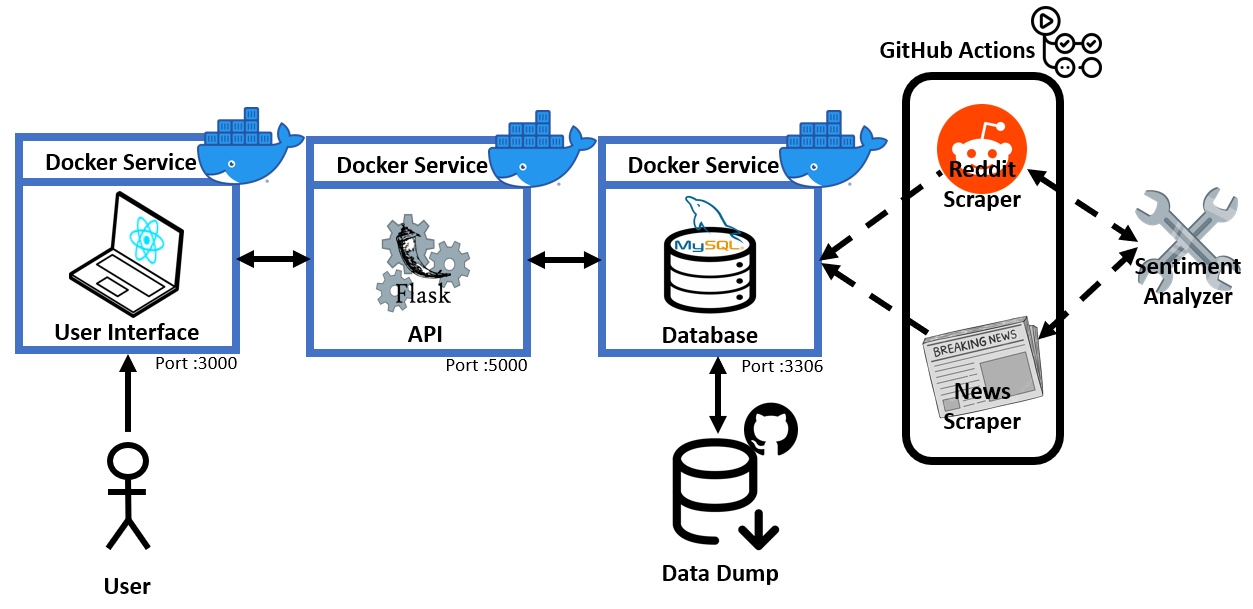
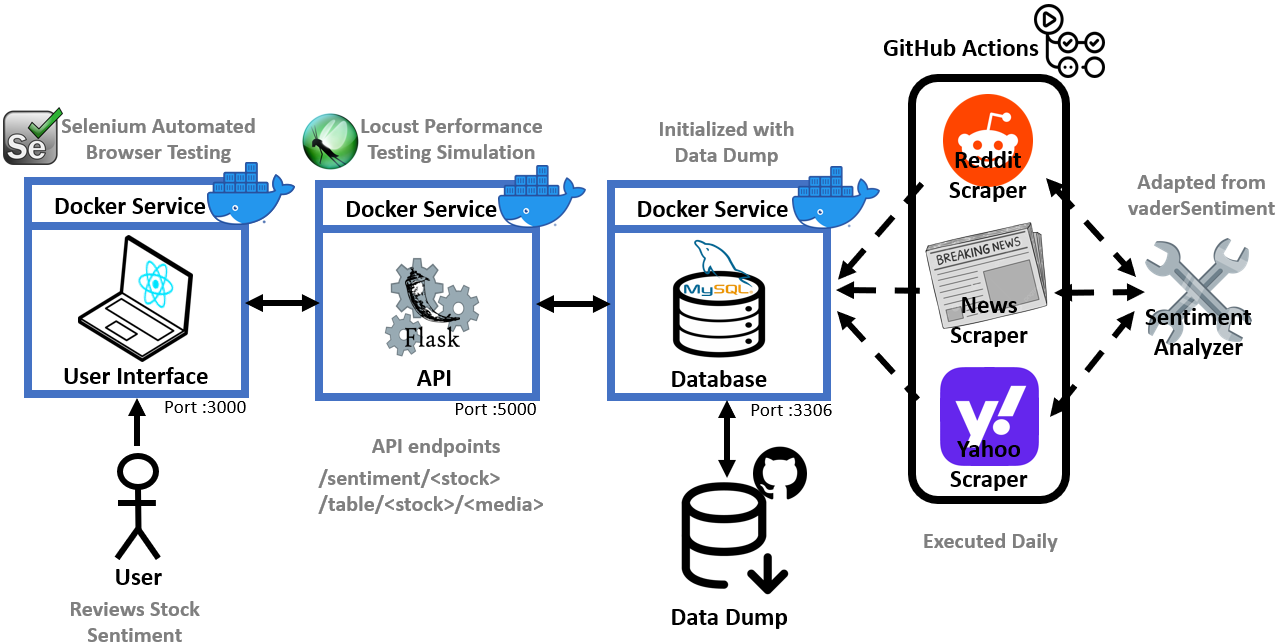
Updated diagrams and readme

Changed region(s): [[0.0, 0.0, 0.996, 0.9984], [0.249, 0.6864, 0.4358, 0.8112]]

diff --git a/README.md b/README.md
@@ -20,11 +20,15 @@ Introducing our innovative project, a **Stock Market Sentiment Analyzer Tool**, 
     * [Data Structure](#data-structure-1)
     * [Sentiment Calculation](#sentiment-calculation-1)
     * [Weight Calculation](#weight-calculation)
+  * [Yahoo Finance](#yahoo-finance-1)
+    * [Data Structure](#data-structure-2)
+    * [Sentiment Calculation](#sentiment-calculation-2)
 * [User Interface](#user-interface)
 * [Deployment](#deployment)
 * [Quality Assurance](#quality-assurance)
   * [Github Actions](#github-actions)
   * [Docker](#docker)
+  * [Locust](#locust)
   * [Selenium](#selenium)
 * [Troubleshooting](#troubleshooting)
   * [Issues with local deployment](#issues-with-local-deployment)
@@ -46,6 +50,14 @@ git clone <repository-url>
 cd <repository-folder>
 ```
 
+### Export Environment Variables
+
+A `.env` file with all environment variables is necessary to run the application. Once placing the `.env` file in the main directory, run the following command:
+
+```bash
+source .env
+```
+
 ### Start the services with Docker
 
 Run the following command to initialize the entire system, including the user interface and backend:
@@ -64,7 +76,7 @@ This architecture diagram provides a high-level view of how the different compon
 * **React User Interface**: The front-end of the application is built with React, it serves as the user interface and sends requests to the Flask API
 * **Flask API**: The Flask API acts as the backend, handling requests from the React UI, it processes the data, interacts with the database, and returns the sentiment of the requested company
 * **MySQL Database**: All data is stored and managed in a MySQL database, the database is updated regularly by scrapers
-* **News Scraper and Reddit Scraper**: These scrapers gather news and Reddit data for sentiment analysis relevant to specific stock tickers or companies, which are then stored in the database
+* **Scrapers**: The scrapers gather News, Reddit and Yahoo data for sentiment analysis relevant to specific stock tickers or companies, which are then stored in the database
 * **Sentiment Analyzer**: The Sentiment Analyzer processes the gathered data and user input, analyzing the text to determine the sentiment score, which reflects the overall tone of the input.
 
 **Architecture diagram:**
@@ -86,11 +98,11 @@ Key features include:
 * Only news articles relevant to specific stock tickers or company names (present in the title or content) are scraped and added to the database
 * The news is scraped daily, ensuring fresh and up-to-date content
 
-This process provides a consistent, daily stream of uniuqe, company-specific news updates for further processing or display.
+This process provides a consistent, daily stream of unique, company-specific news updates for further processing or display.
 
 ## Yahoo Finance
 
-Not Implemented.
+The Yahoo Finance scraper targets the Conversation section of stock-specific pages, where users actively discuss and share market sentiments. The section is particularly valuable for sentiment analysis as users can explicitly mark their stance as "Bullish" or "Bearish" alongside their comments. This feature provides additional context to enhance our sentiment analysis accuracy. While the scraping process is currently performed daily, full automation remains a work in progress due to Yahoo Finance's sophisticated bot detection system. Manual intervention is required until a solution to bypass these restrictions is developed.
 
 ## Twitter/X
 
@@ -98,7 +110,7 @@ Not Implemented.
 
 # Sentiment Analyzer
 
-The Sentiment Analyzer used for this project was made by [vaderSentiment](https://pypi.org/project/vaderSentiment/) and modified to fit the narratives of this project. A lot of changes were made to the `vader_lexicon.txt` file to be more tailored to stock market and finance terminology, a list of those changes can be seen in the [lexicon.txt file](lexicon.txt).
+The Sentiment Analyzer used for this project was made by [vaderSentiment](https://pypi.org/project/vaderSentiment/) and modified to fit the narratives of this project. A lot of changes were made to the `vader_lexicon.txt` file to be more tailored to stock market and finance terminology, a list of those changes can be seen in the [lexicon.txt](./docs/lexicon.txt) file. The tool evaluates emotions and generates score from -1 to 1. It specializes in analyzins social media content by understanding slang, emojis and informal language. The tool provides a compound score that indicates if a text is positive, negative or neutral, making it particularly useful in the case of our projet.
 
 # Database
 
@@ -189,6 +201,49 @@ The weight score represents the importance of an article, starting with a defaul
 
 This weighting system helps prioritize more relevant and higher-quality articles in the database, ensuring accurate data for further analysis
 
+## Yahoo Finance
+
+The Yahoo Finance section stores user comments from the Conversation section of stock-specific pages.
+
+### Data Structure
+
+The data is structured in the following columns:
+* **author**: The username of the comment author
+* **content**: The text content of the comment
+* **date**: The date the comment was posted
+* **sentiment**: A calculated score based on the comment's sentiment
+* **weight**: The difference between likes and dislikes on the comment
+
+**Yahoo Database (NVDA)**
+|author  |content|date|sentiment       |weight|
+|-----------|-------|----------|-----------|-----|
+|Trader joe |Will sell at 202.5 . Even million.|2024-11-06   |-0.4588 |1  |
+|Gary     |Cisco was different because the router and switches mostly became commodities over time and other companies moved in. There wasn't any software to differentiate them from anyone else. A whole different ballgame back then|2024-05-24   |-0.0772 |65    |
+|Benjamin     |Nvidia will continue to dominate the AI GPU market for many quarters to come, and perhaps years.  They have big head start, the best GPU's, R&D and CUDA.|2024-07-06   |0.5719 |14    |
+|JeffG |Investors focused on backward-looking metrics likely missed out on Nvidia (NVDA), one of the most lucrative investment opportunities in the past decade.|2024-05-24  |0.5046 |20   |
+
+### Sentiment Calculation
+
+The sentiment score combines multiple factors to generate a comprehensive evaluation: 
+* **Comment Content**: The primary sentiment is derived from analyzing the text using the sentiment analyzer
+* **User's Position**: If the user explicitly marks their stance as "Bullish" or "Bearish," this influences the final score
+* **Community Response**: The ratio of likes to dislikes affects the sentiment weighting:
+  * Comments with negative sentiment but many dislikes are interpreted as bullish indicators
+  * Comments with positive sentiment but many dislikes are interpreted as bearish indicators
+
+The final sentiment impact is calculated by multiplying the sentiment score by the weight:
+* Negative sentiment × Negative weight = Positive impact
+* Negative sentiment × Positive weight = Negative impact
+* Positive sentiment × Negative weight = Negative impact
+* Positive sentiment × Positive weight = Positive impact
+
+For example: 
+* A bearish comment (-0.8 sentiment) with -20 weight would result in a +16 positive impact
+* A bullish comment (0.9 sentiment) with +30 weight would result in a +27 positive impact
+* Comments with weights close to zero have minimal impact on the final sentiment calculation
+
+This multiplication approach ensures that community disagreement with negative comments (through dislikes) properly translates into positive market sentiment, and vice versa. Notably, Yahoo Finance conversations tend to be heavily one-sided for each stock, with users typically being either overwhelmingly bullish or bearish, making it an excellent indicator of retail investor sentiment.
+
 # User Interface
 
 Coming Soon.
@@ -197,11 +252,13 @@ Coming Soon.
 
 This deployment diagram illustrates the following key components:
 * **User Interface (React)**: A user interface built with React that communicated with the backend API
+* **Selenium**: Performs automated browser testing to ensure UI functionality
 * **API (Flask)**: A Flask API that processes requests from the UI and interacts with the database
+* **Locust**: Implements load testing simulations to evaluate the application's performance under various user loads
 * **Database (MySQL)**: Stores the data processed by the scrapers
 * **GitHub Actions**: A CI/CD pipeline responsible for running unit tests on the database and scrapers and also updating the database periodically
 * **Docker**: The services are encapsulated within a Docker container to ensure consistent deployment across environment
-* **Sentiment analyzer**: Analyzes text data (comments, news) and returns a sentiment score
+* **Sentiment Analyzer**: Analyzes text data (comments, news) and returns a sentiment score
 * **Data Dump**: `.sql` files stored in the GitHub repo, used to populate the database with pre-saved data during initialization
 
 **Deployment diagram:**
@@ -226,9 +283,13 @@ This automated process ensures that our core components maintain data integrity 
 
 The User Interface, API and MySQL Database run in different Docker container, ensuring consistent and reproducible environments across different systems. As we continue to improve our scrapers, they will be added to the containerized environment once they reach a stable and production-ready state.
 
+## Locust
+
+Coming soon.
+
 ## Selenium
 
-Not implemented.
+Coming soon.
 
 # Troubleshooting
 
